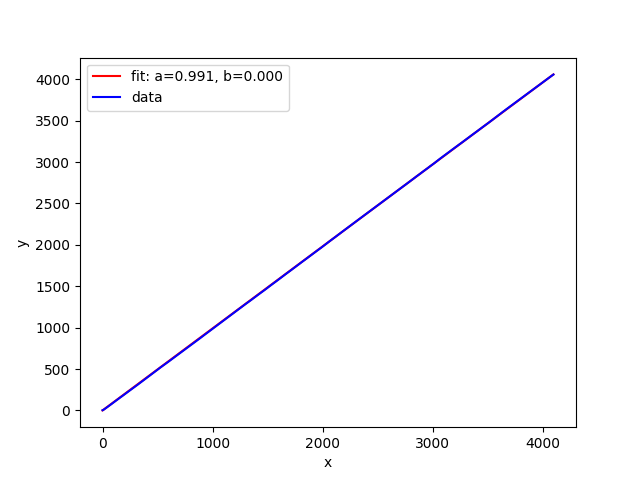
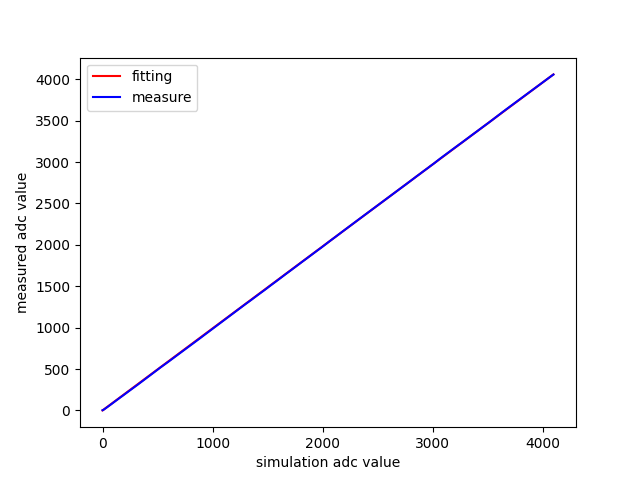
add multiple device test

diff --git a/testing.py b/testing.py
@@ -2,92 +2,104 @@ import json
 import threading
 import pigpio
 import time
+from testing_schema import Schema
 
 from utils import system_utilization_usage
 
-a = system_utilization_usage()
-
-pi = pigpio.pi()
-
 register_pins = dict({
-    1:{
+    1: {
         "label": "lab_1",
-        "pins":[]
+        "pins": []
     },
-    2:{
+    2: {
         "label": "lab_2",
-        "pins":[]
+        "pins": []
     },
-    3:{
+    3: {
         "label": "lab_3",
-        "pins":[]
+        "pins": []
     },
-    4:{
+    4: {
         "label": "lab_1",
-        "pins":[]
+        "pins": []
     },
 })
 
-script = []
-with open("./lab_1.json", "r") as readfile:
-    script = json.load(readfile)
 
-# print(script)
+def test():
+    a = system_utilization_usage()
 
-target_input = [event for event in script if event["type"] == "input"]
-target_output = [event for event in script if event["type"] == "output"]
-target_input_pin = []
-[target_input_pin.append(event["pin"])
- for event in target_input if event["pin"] not in target_input_pin]
-target_output_pin = []
-[target_output_pin.append(event["pin"])
- for event in target_output if event["pin"] not in target_output_pin]
+    pi = pigpio.pi()
 
-# setup input
-for pin in target_input_pin:
-    pi.set_mode(pin, pigpio.OUTPUT)
+    script = list[Schema]
+    with open("./lab_1.json", "r") as readfile:
+        script = list[Schema](json.load(readfile))
 
-result = []
+    # print(script)
 
-# add callback data to result
+    target_input = [event for event in script if event["type"] == "input"]
+    target_output = [event for event in script if event["type"] == "output"]
+    target_end = [event for event in script if event["type"] == "end"]
 
-first_start = 0
+    if len(target_end) == 0:
+        raise Exception("No end event found")
 
+    target_input_pin = []
+    [target_input_pin.append(event["pin"])
+     for event in target_input if event["pin"] not in target_input_pin]
+    target_output_pin = []
+    [target_output_pin.append(event["pin"])
+     for event in target_output if event["pin"] not in target_output_pin]
 
-def callback(gpio, level, tick):
-    global first_start, result
-    if first_start == 0:
-        first_start = tick
-    result.append(
-        {
-            "pin": gpio,
-            "capture": "falling" if level == 0 else "rising",
-            "timestamp": tick,
-            "relative_timestamp": (tick - first_start)/1000000
-        }
-    )
+    # setup input
+    for pin in target_input_pin:
+        pi.set_mode(pin, pigpio.OUTPUT)
 
-# set all callback
+    result = []
 
-for input_pin in target_input_pin:
-    pi.callback(input_pin, pigpio.EITHER_EDGE, callback)
+    # add callback data to result
 
-for output_pin in target_output_pin:
-    pi.callback(output_pin, pigpio.EITHER_EDGE, callback)
+    first_start = 0
 
-# start
+    def callback(gpio, level, tick):
+        nonlocal first_start, result
+        if first_start == 0:
+            first_start = tick
+        result.append(
+            {
+                "pin": gpio,
+                "capture": "falling" if level == 0 else "rising",
+                "timestamp": tick,
+                "relative_timestamp": (tick - first_start)/1000000
+            }
+        )
 
-for input_pin in range(len(target_input)):
-    target = target_input[input_pin]
-    print(target,end="\n")
-    pi.write(target['pin'], 1 if target['capture'] == 'rising' else 0)
-    # check if has next target
-    if input_pin + 1 < len(target_input):
-        next_target = target_input[input_pin + 1]
-        print(next_target['at'] - target['at'], end="\n")
-        time.sleep(next_target['at'] - target['at'])
+    # set all callback
 
-with open("sample.json", "w") as outfile:
-    outfile.write(json.dumps(result, indent=4))
+    for input_pin in target_input_pin:
+        pi.callback(input_pin, pigpio.EITHER_EDGE, callback)
 
-a.kill()
+    for output_pin in target_output_pin:
+        pi.callback(output_pin, pigpio.EITHER_EDGE, callback)
+
+    # start
+
+    for input_pin in range(len(target_input)):
+        target = target_input[input_pin]
+        print(target, end="\n")
+        pi.write(target['pin'], 1 if target['capture'] == 'rising' else 0)
+        # check if has next target
+        if input_pin + 1 < len(target_input):
+            next_target = target_input[input_pin + 1]
+            print(next_target['at'] - target['at'], end="\n")
+            time.sleep(next_target['at'] - target['at'])
+
+    sorted_at = sorted(script, key=lambda x: x['at'])
+
+    # wait for end
+    time.sleep(target_end[0]["at"] - sorted_at[-2]['at'])
+
+    with open("sample.json", "w") as outfile:
+        outfile.write(json.dumps(result, indent=4))
+
+    a.kill()

diff --git a/process_adc.py b/process_adc.py
@@ -26,10 +26,10 @@ def func_simple(x, a, b):
 
 popt, pcov = curve_fit(func_simple, x, y, bounds=(0, np.inf))
 plt.plot(x, func_simple(x, *popt), 'r-',
-         label='fit: a=%5.3f, b=%5.3f' % tuple(popt))
-plt.plot(x, y, 'b-', label='data')
-plt.xlabel('x')
-plt.ylabel('y')
+         label='fitting')
+plt.plot(x, x, 'b-', label='measure')
+plt.xlabel('simulation adc value')
+plt.ylabel('measured adc value')
 plt.legend()
 plt.show()
 plt.savefig('plot.png')

diff --git a/testing_schema.py b/testing_schema.py
@@ -3,8 +3,8 @@ from typing_extensions import TypedDict
 
 class Schema(TypedDict):
     label: str # Label of the measurement <optional>
-    pin: int # target pin <required>
-    type: str # input or output
+    pin: int # target pin <required> ignore if event is end
+    type: str # input or output or end <required>
     signal: str # digtal(default) analog pwm
     at: int # time
     unit: str # time unit default: microseconds

diff --git a/controller.py b/controller.py
@@ -5,5 +5,5 @@ from utils import read_project_config
 
 
 def command_processing(message: AppMessage):
-    if message['event'] == "income_work":
+    if message['event'] == "incoming_work":
         pass
